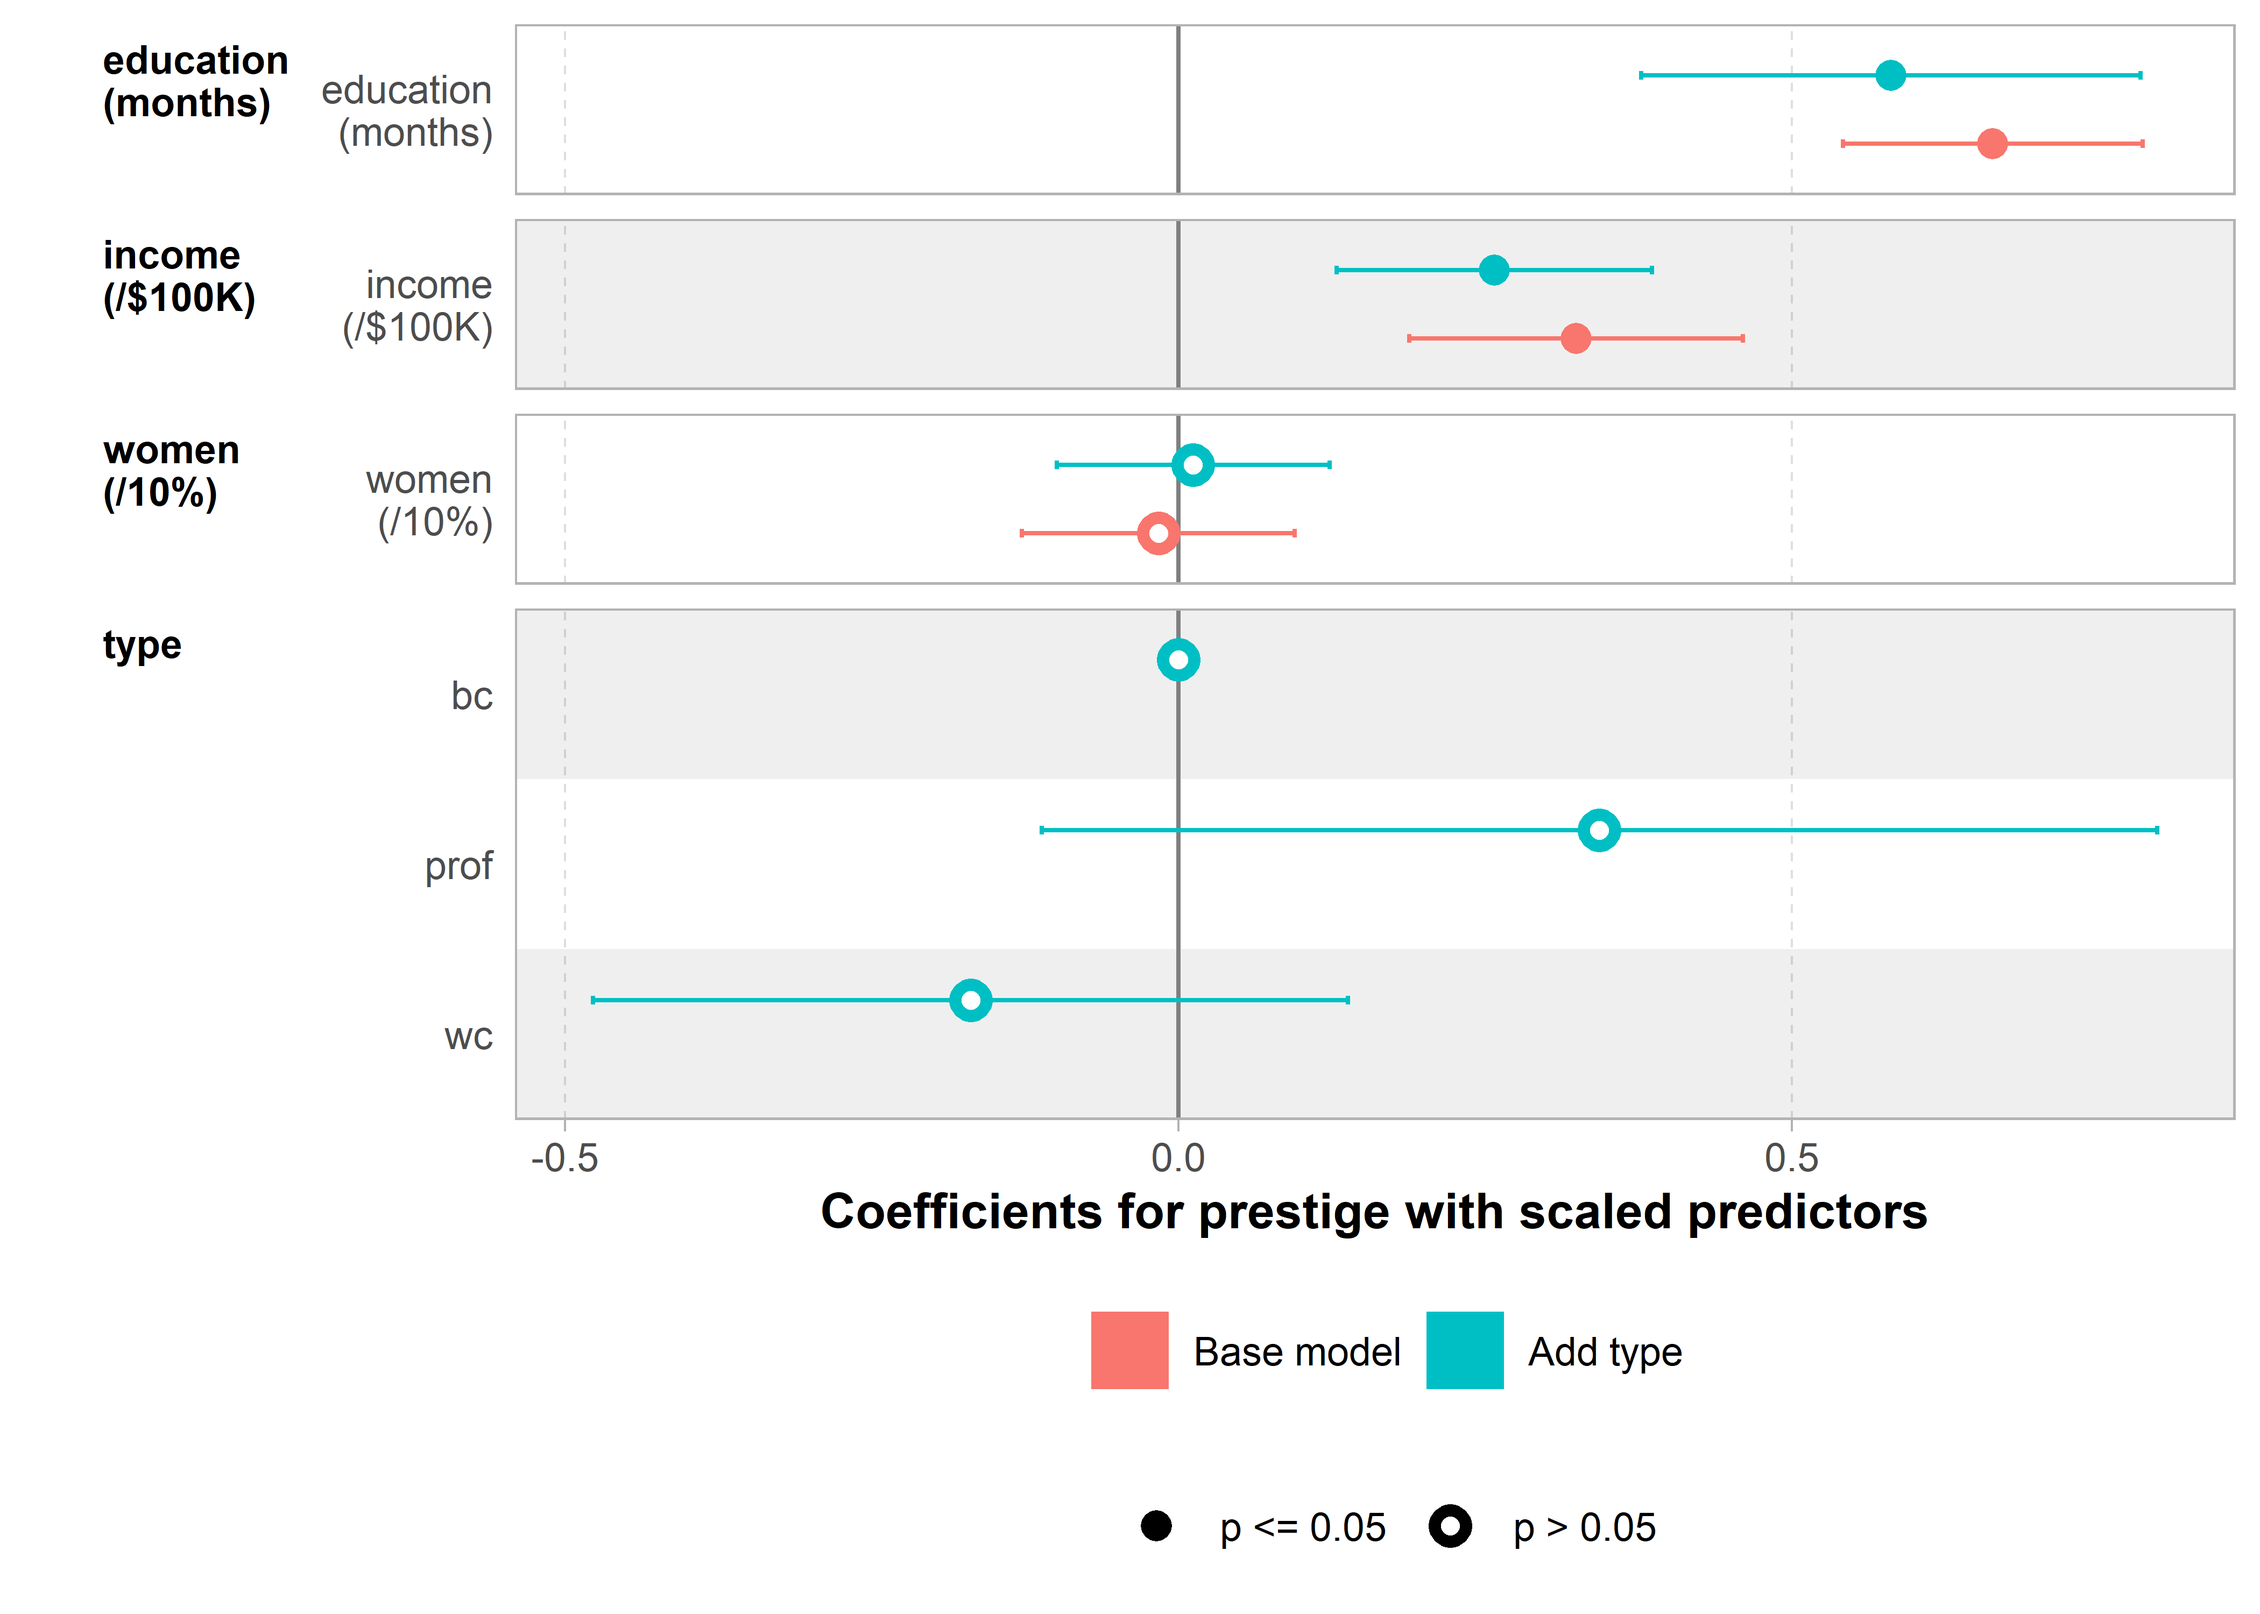
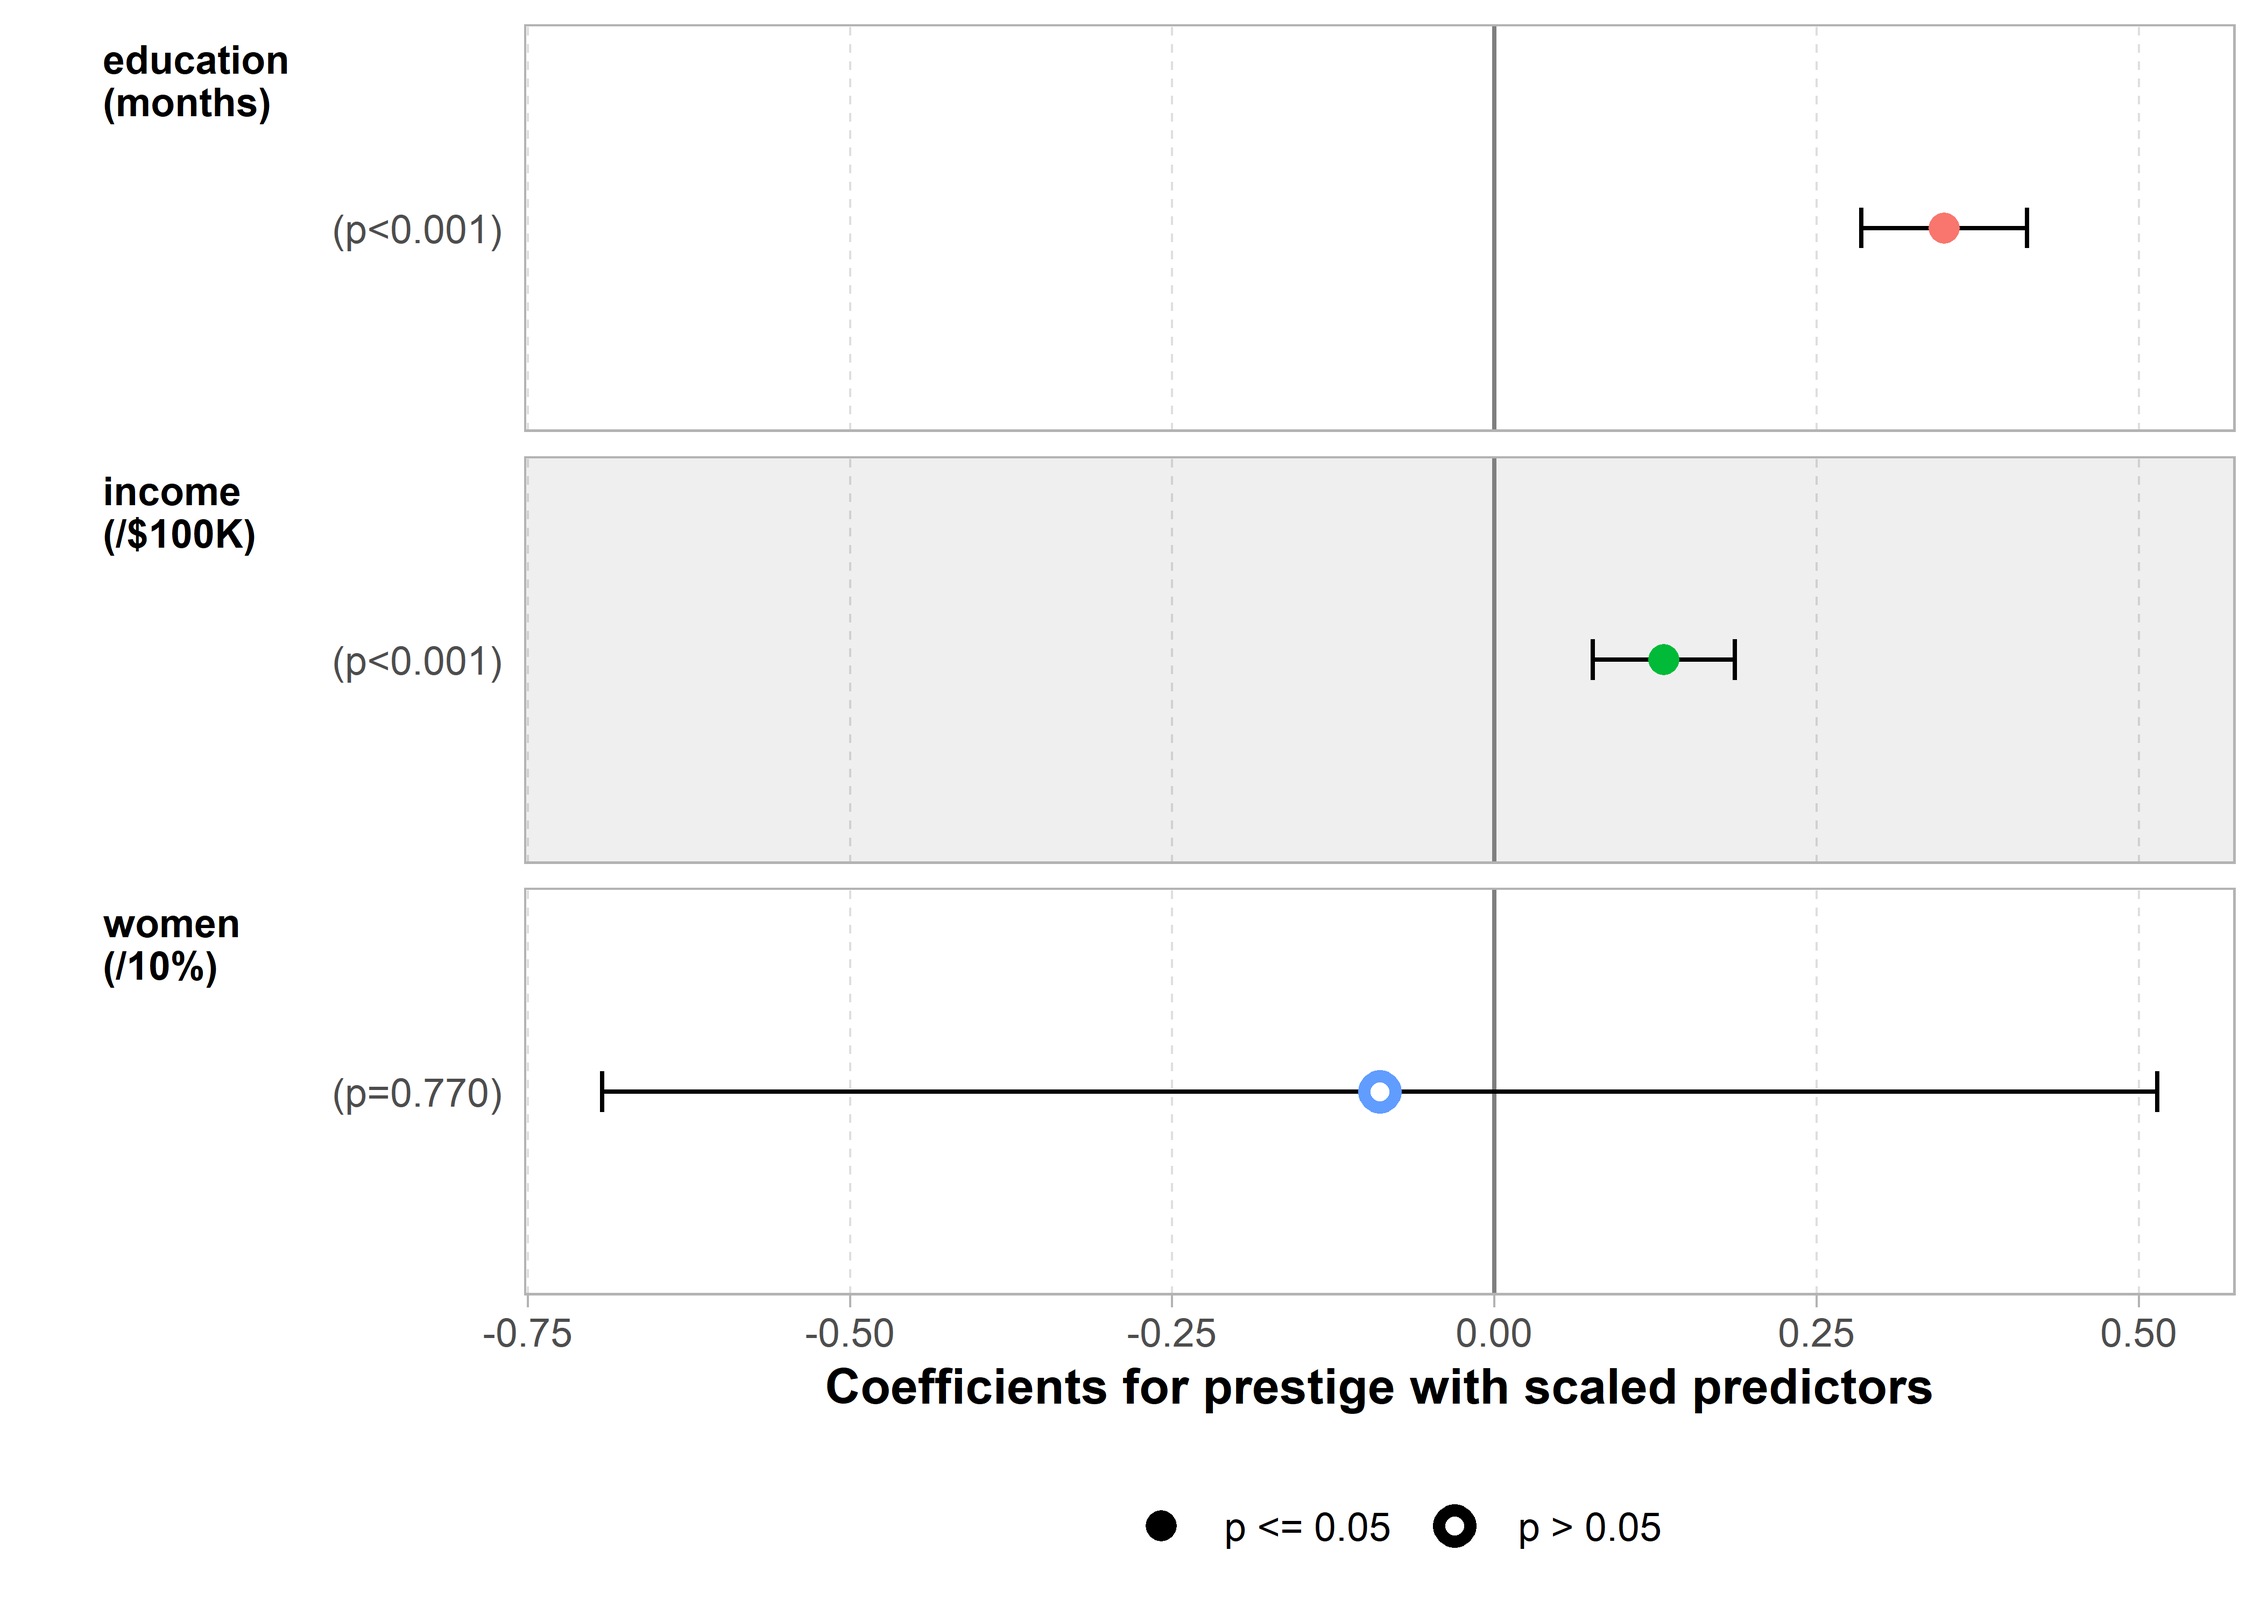
tweak coefplots

diff --git a/docs/06-linear_models-plots.html b/docs/06-linear_models-plots.html
@@ -1126,7 +1126,7 @@ window.addEventListener('load', function () { styleCell_tinytable_99icm0xmzb5g0j
 <span>  <span class="fu"><a href="https://ggplot2.tidyverse.org/reference/theme.html">theme</a></span><span class="op">(</span>legend.position <span class="op">=</span> <span class="st">"inside"</span>,</span>
 <span>        legend.position.inside <span class="op">=</span> <span class="fu"><a href="https://rdrr.io/r/base/c.html">c</a></span><span class="op">(</span><span class="fl">0.85</span>, <span class="fl">0.2</span><span class="op">)</span><span class="op">)</span></span></code><button title="Copy to Clipboard" class="code-copy-button"><i class="bi"></i></button></pre></div>
 </div>
-<p>The <strong>ggstats</strong> package (<span class="citation" data-cites="R-ggstats">Larmarange (<a href="90-references.html#ref-R-ggstats" role="doc-biblioref">2024</a>)</span>) package provides even nicer versions of coefficient plots that handle factors in a more reasonable way, as levels nested within the factor. <code><a href="https://larmarange.github.io/ggstats/reference/ggcoef_model.html">ggcoef_model()</a></code> plots a single model and <code><a href="https://larmarange.github.io/ggstats/reference/ggcoef_model.html">ggcoef_compare()</a></code> plots a list of models using sensible defaults. A small but nice feature is that it explicitly shows the 0 value for the reference level of a factor (<code>type = "bc"</code> here.)</p>
+<p>The <strong>ggstats</strong> package (<span class="citation" data-cites="R-ggstats">Larmarange (<a href="90-references.html#ref-R-ggstats" role="doc-biblioref">2024</a>)</span>) package provides even nicer versions of coefficient plots that handle factors in a more reasonable way, as levels within the factor. <code><a href="https://larmarange.github.io/ggstats/reference/ggcoef_model.html">ggcoef_model()</a></code> plots a single model and <code><a href="https://larmarange.github.io/ggstats/reference/ggcoef_model.html">ggcoef_compare()</a></code> plots a list of models using sensible defaults. A small but nice feature is that it explicitly shows the 0 value for the reference level of a factor (<code>type = "bc"</code> here) and uses better labels for factors and their interactions.</p>
 <div class="cell" data-layout-align="center">
 <div class="sourceCode" id="cb20" data-source-line-numbers="nil" data-code-line-numbers="nil"><pre class="downlit sourceCode r code-with-copy"><code class="sourceCode R"><span><span class="va">models</span> <span class="op">&lt;-</span> <span class="fu"><a href="https://rdrr.io/r/base/list.html">list</a></span><span class="op">(</span></span>
 <span>  <span class="st">"Base model"</span>      <span class="op">=</span> <span class="va">mod1_std</span>,</span>
@@ -1145,7 +1145,7 @@ window.addEventListener('load', function () { styleCell_tinytable_99icm0xmzb5g0j
 </section><section id="more-meaningful-units" class="level4 unnumbered"><h4 class="unnumbered anchored" data-anchor-id="more-meaningful-units">More meaningful units</h4>
 <p>Standardizing the variables makes the coefficients directly comparable, but it may be harder to understand what they mean in terms of the variables. For example, the coefficient of <code>income</code> in <code>mod2_std</code> is 0.25. A literal interpretation is that occupational prestige is expected to increase 0.25 standard deviations for each standard deviation increase in income, but it may be difficult to appreciate what this means.</p>
 <p>A better substantive comparison of the coefficients could use understandable scales for the predictors, e.g., months of education, $100,000 of income or 10% of women’s participation. Note that the effect of this is just to multiply the coefficients and their standard errors by a factor. The statistical conclusions of significance are unchanged.</p>
-<p>For simplicity, I do this just for Models 1 and 2.</p>
+<p>For simplicity, I do this just for Model 1.</p>
 <div class="cell" data-layout-align="center">
 <div class="sourceCode" id="cb21" data-source-line-numbers="nil" data-code-line-numbers="nil"><pre class="downlit sourceCode r code-with-copy"><code class="sourceCode R"><span><span class="va">Prestige_scaled</span> <span class="op">&lt;-</span> <span class="va">Prestige</span> <span class="op">|&gt;</span></span>
 <span>  <span class="fu"><a href="https://dplyr.tidyverse.org/reference/mutate.html">mutate</a></span><span class="op">(</span>education <span class="op">=</span> <span class="fl">12</span> <span class="op">*</span> <span class="va">education</span>,</span>
@@ -1153,28 +1153,24 @@ window.addEventListener('load', function () { styleCell_tinytable_99icm0xmzb5g0j
 <span>         women <span class="op">=</span> <span class="va">women</span> <span class="op">/</span> <span class="fl">10</span><span class="op">)</span></span>
 <span></span>
 <span><span class="va">mod1_scaled</span> <span class="op">&lt;-</span> <span class="fu"><a href="https://rdrr.io/r/stats/lm.html">lm</a></span><span class="op">(</span><span class="va">prestige</span> <span class="op">~</span> <span class="va">education</span> <span class="op">+</span> <span class="va">income</span> <span class="op">+</span> <span class="va">women</span>,</span>
-<span>                  data<span class="op">=</span><span class="va">Prestige_scaled</span><span class="op">)</span></span>
-<span><span class="va">mod2_scaled</span> <span class="op">&lt;-</span> <span class="fu"><a href="https://rdrr.io/r/stats/lm.html">lm</a></span><span class="op">(</span><span class="va">prestige</span> <span class="op">~</span> <span class="va">education</span> <span class="op">+</span> <span class="va">income</span> <span class="op">+</span> <span class="va">women</span> <span class="op">+</span> <span class="va">type</span>,</span>
 <span>                  data<span class="op">=</span><span class="va">Prestige_scaled</span><span class="op">)</span></span></code><button title="Copy to Clipboard" class="code-copy-button"><i class="bi"></i></button></pre></div>
 </div>
+<p>When we plot this with <code><a href="https://larmarange.github.io/ggstats/reference/ggcoef_model.html">ggcoef_model()</a></code>, there are many options to control how variables are labeled and other details.</p>
 <div class="cell" data-layout-align="center">
-<div class="sourceCode" id="cb22" data-source-line-numbers="nil" data-code-line-numbers="nil"><pre class="downlit sourceCode r code-with-copy"><code class="sourceCode R"><span><span class="va">models</span> <span class="op">&lt;-</span> <span class="fu"><a href="https://rdrr.io/r/base/list.html">list</a></span><span class="op">(</span></span>
-<span>  <span class="st">"Base model"</span>      <span class="op">=</span> <span class="va">mod1_std</span>,</span>
-<span>  <span class="st">"Add type"</span>        <span class="op">=</span> <span class="va">mod2_std</span><span class="op">)</span></span>
-<span></span>
-<span><span class="fu"><a href="https://larmarange.github.io/ggstats/reference/ggcoef_model.html">ggcoef_compare</a></span><span class="op">(</span><span class="va">models</span>,</span>
-<span>   variable_labels <span class="op">=</span> <span class="fu"><a href="https://rdrr.io/r/base/c.html">c</a></span><span class="op">(</span>education <span class="op">=</span> <span class="st">"education\n(months)"</span>,</span>
-<span>                       income <span class="op">=</span> <span class="st">"income\n(/$100K)"</span>,</span>
-<span>                       women <span class="op">=</span> <span class="st">"women\n(/10%)"</span><span class="op">)</span></span>
-<span><span class="op">)</span> <span class="op">+</span></span>
+<div class="sourceCode" id="cb22" data-source-line-numbers="nil" data-code-line-numbers="nil"><pre class="downlit sourceCode r code-with-copy"><code class="sourceCode R"><span><span class="fu"><a href="https://larmarange.github.io/ggstats/reference/ggcoef_model.html">ggcoef_model</a></span><span class="op">(</span><span class="va">mod1_scaled</span>,</span>
+<span>  signif_stars <span class="op">=</span> <span class="cn">FALSE</span>,</span>
+<span>  variable_labels <span class="op">=</span> <span class="fu"><a href="https://rdrr.io/r/base/c.html">c</a></span><span class="op">(</span>education <span class="op">=</span> <span class="st">"education\n(months)"</span>,</span>
+<span>                      income <span class="op">=</span> <span class="st">"income\n(/$100K)"</span>,</span>
+<span>                      women <span class="op">=</span> <span class="st">"women\n(/10%)"</span><span class="op">)</span><span class="op">)</span> <span class="op">+</span></span>
 <span>  <span class="fu"><a href="https://ggplot2.tidyverse.org/reference/labs.html">xlab</a></span><span class="op">(</span><span class="st">"Coefficients for prestige with scaled predictors"</span><span class="op">)</span></span></code><button title="Copy to Clipboard" class="code-copy-button"><i class="bi"></i></button></pre></div>
 <div class="cell-output-display">
 <div id="fig-ggcoef-compare2" class="quarto-figure quarto-figure-center anchored">
 <figure class="figure"><p><img src="figs/ch06/fig-ggcoef-compare2-1.png" class="img-fluid figure-img" style="width:90.0%"></p>
-<figcaption class="figure-caption">Figure&nbsp;6.7: Plot of coefficients for prestige with scaled predictors for Model1 and Model2.</figcaption></figure>
+<figcaption class="figure-caption">Figure&nbsp;6.7: Plot of coefficients for prestige with scaled predictors for Model 1.</figcaption></figure>
 </div>
 </div>
 </div>
+<p>So, on average, each additional month of education increases the prestige rating by 0.34 units, while an additional $100,000 of income increases it by 0.13 units. While these are significant effects, they are not large in relation to the scale of <code>prestige</code> which ranges 14.8 – 87.2.</p>
 </section></section></section><section id="spread-level-plot" class="level2" data-number="6.4"><h2 data-number="6.4" class="anchored" data-anchor-id="spread-level-plot">
 <span class="header-section-number">6.4</span> Spread-level plot</h2>
 </section><section id="sec-avplots" class="level2" data-number="6.5"><h2 data-number="6.5" class="anchored" data-anchor-id="sec-avplots">
